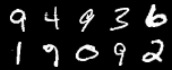
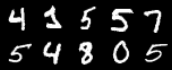
Update preview image saving logic to skip if directory is not empty

diff --git a/train.py b/train.py
@@ -237,34 +237,37 @@ if __name__ == "__main__":
     if train_dataloader is None or val_dataloader is None or test_dataloader is None:
         raise RuntimeError("Dataloaders were not initialized; check dataset selection.")
 
-    # *Show 10 samples in a grid for preview purposes
+    # *Show 10 samples in a grid for preview purposes if empty
     # show a sample batch shape (collate_fn returns (images, labels))
-    sample = next(iter(train_dataloader))
-    if isinstance(sample, (tuple, list)):
-        images, labels = sample
-        print(f"\nInput sample shape: {tuple(images.shape)}")
-        print(f"Labels shape: {tuple(labels.shape)}\n")
-    else:
-        images = sample
-        print(f"\nInput sample shape: {tuple(images.shape)}\n")
-    
-    if isinstance(sample, (tuple, list)):
-        num_preview = min(10, images.shape[0])
-        preview_images = images[:num_preview].cpu()
-        preview_labels = labels[:num_preview].cpu().tolist()
+    os.makedirs(f"{figure_root}/{args.dataset}/preview", exist_ok=True)
+    if os.listdir(f"{figure_root}/{args.dataset}/preview") == []:
+        sample = next(iter(train_dataloader))
+        if isinstance(sample, (tuple, list)):
+            images, labels = sample
+            print(f"\nInput sample shape: {tuple(images.shape)}")
+            print(f"Labels shape: {tuple(labels.shape)}\n")
+        else:
+            images = sample
+            print(f"\nInput sample shape: {tuple(images.shape)}\n")
+        
+        if isinstance(sample, (tuple, list)):
+            num_preview = min(10, images.shape[0])
+            preview_images = images[:num_preview].cpu()
+            preview_labels = labels[:num_preview].cpu().tolist()
 
-        preview_save_path = f"{figure_root}/{args.dataset}/preview/sample_images_grid_{args.dataset}.png"
-        os.makedirs(f"{figure_root}/{args.dataset}/preview", exist_ok=True)
-        try:
-            torchvision.utils.save_image(
-                preview_images,
-                preview_save_path,
-                nrow=num_preview // 2,
-                normalize=True
-            )
-            print(f"Saved preview grid of {num_preview} images to {preview_save_path}\n")
-        except Exception as e:
-            print(f"Failed to save preview grid: {e}")
+            preview_save_path = f"{figure_root}/{args.dataset}/preview/sample_images_grid_{args.dataset}.png"
+            try:
+                torchvision.utils.save_image(
+                    preview_images,
+                    preview_save_path,
+                    nrow=num_preview // 2,
+                    normalize=True
+                )
+                print(f"Saved preview grid of {num_preview} images to {preview_save_path}\n")
+            except Exception as e:
+                print(f"Failed to save preview grid: {e}")
+    else:
+        print(f"Preview directory {figure_root}/{args.dataset}/preview is not empty; skipping preview image save.\n")
     # ----------------------------------------------
 
     # *Configurate the noise scheduler
